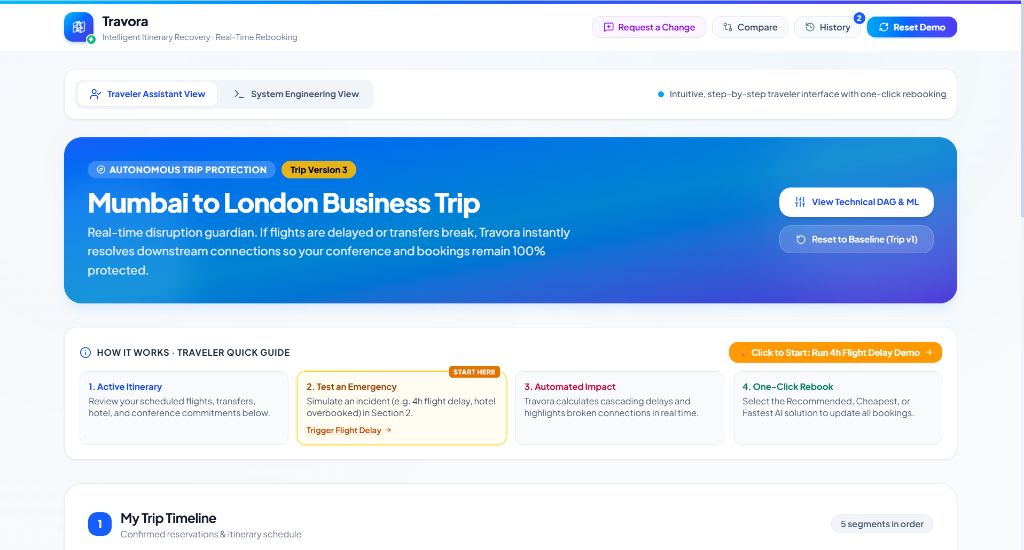
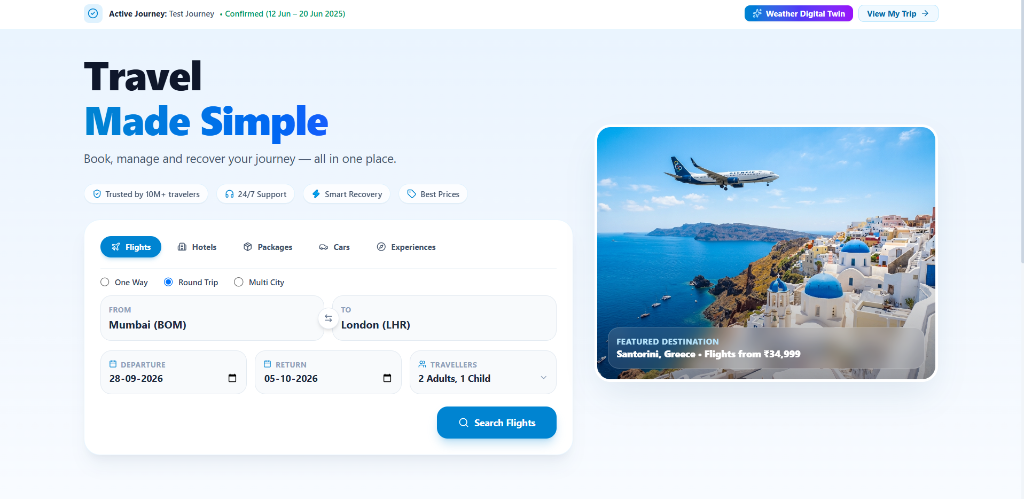
docs: update README with real platform screenshots (Digital Twin, WhatsApp Bot, SMS Gateway, Web UI)

diff --git a/README.md b/README.md
@@ -25,9 +25,10 @@
 6. [Technology Stack](#-technology-stack)
 7. [Step-by-Step Getting Started](#-step-by-step-getting-started)
 8. [Interactive Demo Walkthrough](#-interactive-demo-walkthrough)
-9. [API Reference](#-api-reference)
-10. [Team & Contributors](#-team--contributors)
-11. [Documentation & Deep Dives](#-documentation--deep-dives)
+9. [Platform Showcase & Screenshots](#-platform-showcase--interface-screenshots)
+10. [API Reference](#-api-reference)
+11. [Team & Contributors](#-team--contributors)
+12. [Documentation & Deep Dives](#-documentation--deep-dives)
 
 ---
 
@@ -262,6 +263,47 @@ flutter run
      > `2⃣ Alternative Flight IndiGo 12:10 PM`
      > `Reply with 1, 2, or 3 to rebook.`
    - Replying `1` automatically confirms the rebooking, generates a new PNR, and updates the traveler's digital timeline!
+
+---
+
+## 📸 Platform Showcase & Interface Screenshots
+
+### 1. Traveler Web Dashboard & Flight Booking
+> *The central hub for travelers to manage active journeys, search flights, and access the Weather Digital Twin.*
+
+![Traveler Web Dashboard](docs/screenshots/01-dashboard.png)
+
+---
+
+### 2. Weather Digital Twin & What-If Simulator
+> *Real-time weather telemetry along flight corridors with interactive stress test sliders (Rainfall, Wind, Visibility, Temp), risk gauges (96% disruption risk, 315 min delay), and Leaflet corridor route maps.*
+
+![Weather Digital Twin Dashboard](docs/screenshots/02-digital-twin.png)
+
+---
+
+### 3. 2-Way Conversational WhatsApp Recovery Bot
+> *Multi-channel interactive recovery via WhatsApp Cloud API — travelers reply with `1`, `2`, or `3` to select alternative flights and instantly receive confirmed booking updates and PNR.*
+
+<div align="center">
+  <img src="docs/screenshots/03-whatsapp-recovery.png" alt="WhatsApp Recovery Bot" width="70%"/>
+</div>
+
+---
+
+### 4. Hardware SMS Gateway Alerts & Mobile Confirmations
+> *On-premise Android hardware SMS Gateway alerts travelers when a hotel or flight is cancelled, delivering instant SMS recovery options.*
+
+<div align="center">
+  <img src="docs/screenshots/04-sms-recovery.png" alt="SMS Gateway Alert" width="45%"/>
+</div>
+
+---
+
+### 5. Popular Destinations & Features UI
+> *Curated travel destinations, real-time alert status badges, smart recovery cards, and 24/7 support.*
+
+![Popular Destinations](docs/screenshots/05-popular-destinations.png)
 
 ---
 
